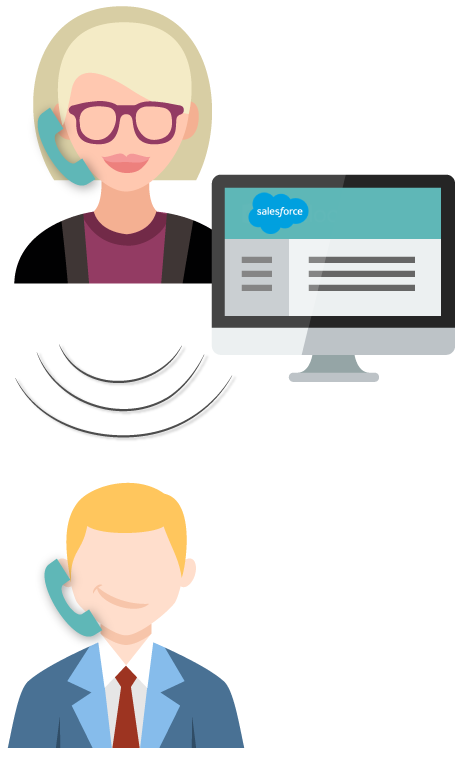
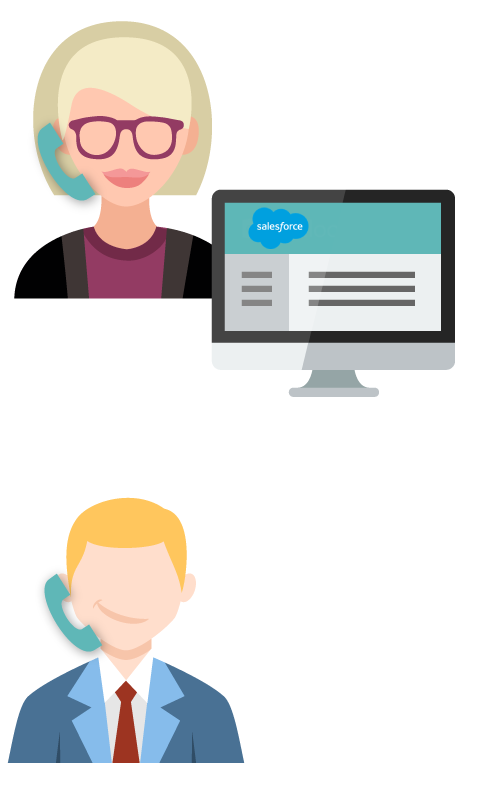
Update software integrations with stand-alone signal graphics

diff --git a/css/custom/styles.css b/css/custom/styles.css
@@ -1366,8 +1366,20 @@ button.yellow-background {
   #software-integrations #story-2 #fax-graphic {
     position: absolute;
     top: 653px; }
-  #software-integrations #story-2 img #phone-icon-2 {
+  #software-integrations #story-2 img#phone-icon-2 {
     display: block; }
+  #software-integrations #story-2 img#signal-1 {
+    position: absolute;
+    top: 332px;
+    left: 57px; }
+  #software-integrations #story-2 img#signal-2 {
+    position: absolute;
+    top: 341px;
+    left: 32px; }
+  #software-integrations #story-2 img#signal-3 {
+    position: absolute;
+    top: 372px;
+    left: 4px; }
   #software-integrations #story-3 {
     height: 1500px; }
     #software-integrations #story-3 h3 {

diff --git a/css/custom/_1025_up.scss b/css/custom/_1025_up.scss
@@ -606,9 +606,31 @@ button.yellow-background {
 
         img {
 
-            #phone-icon-2 {
+            &#phone-icon-2 {
 
                 display: block;
+            }
+
+            &#signal-1 {
+
+                position: absolute;
+                top: 332px;
+                left: 57px;
+            }
+
+            &#signal-2 {
+
+                position: absolute;
+                top: 341px;
+                left: 32px;
+                
+            }
+
+            &#signal-3 {
+
+                position: absolute;
+                top: 372px;
+                left: 4px;
             }
         }
     }

diff --git a/software-integrations.php b/software-integrations.php
@@ -44,6 +44,9 @@
             <div class="small-12 large-6 columns">
                 <img src="img/software/crm_mobile.png" alt="" class="hide-for-large-up">
                 <img src="img/software/crm_desktop.png" alt="" class="show-for-large-up">
+                <img src="img/shared/signal_1.png" alt="" class="show-for-large-up signal-graphic" id="signal-1">
+                <img src="img/shared/signal_2.png" alt="" class="show-for-large-up signal-graphic" id="signal-2">
+                <img src="img/shared/signal_3.png" alt="" class="show-for-large-up signal-graphic" id="signal-3">
             </div>
             <img src="img/software/fax_graphic.png" alt="" class="show-for-large-up" id="fax-graphic">
         </div>
